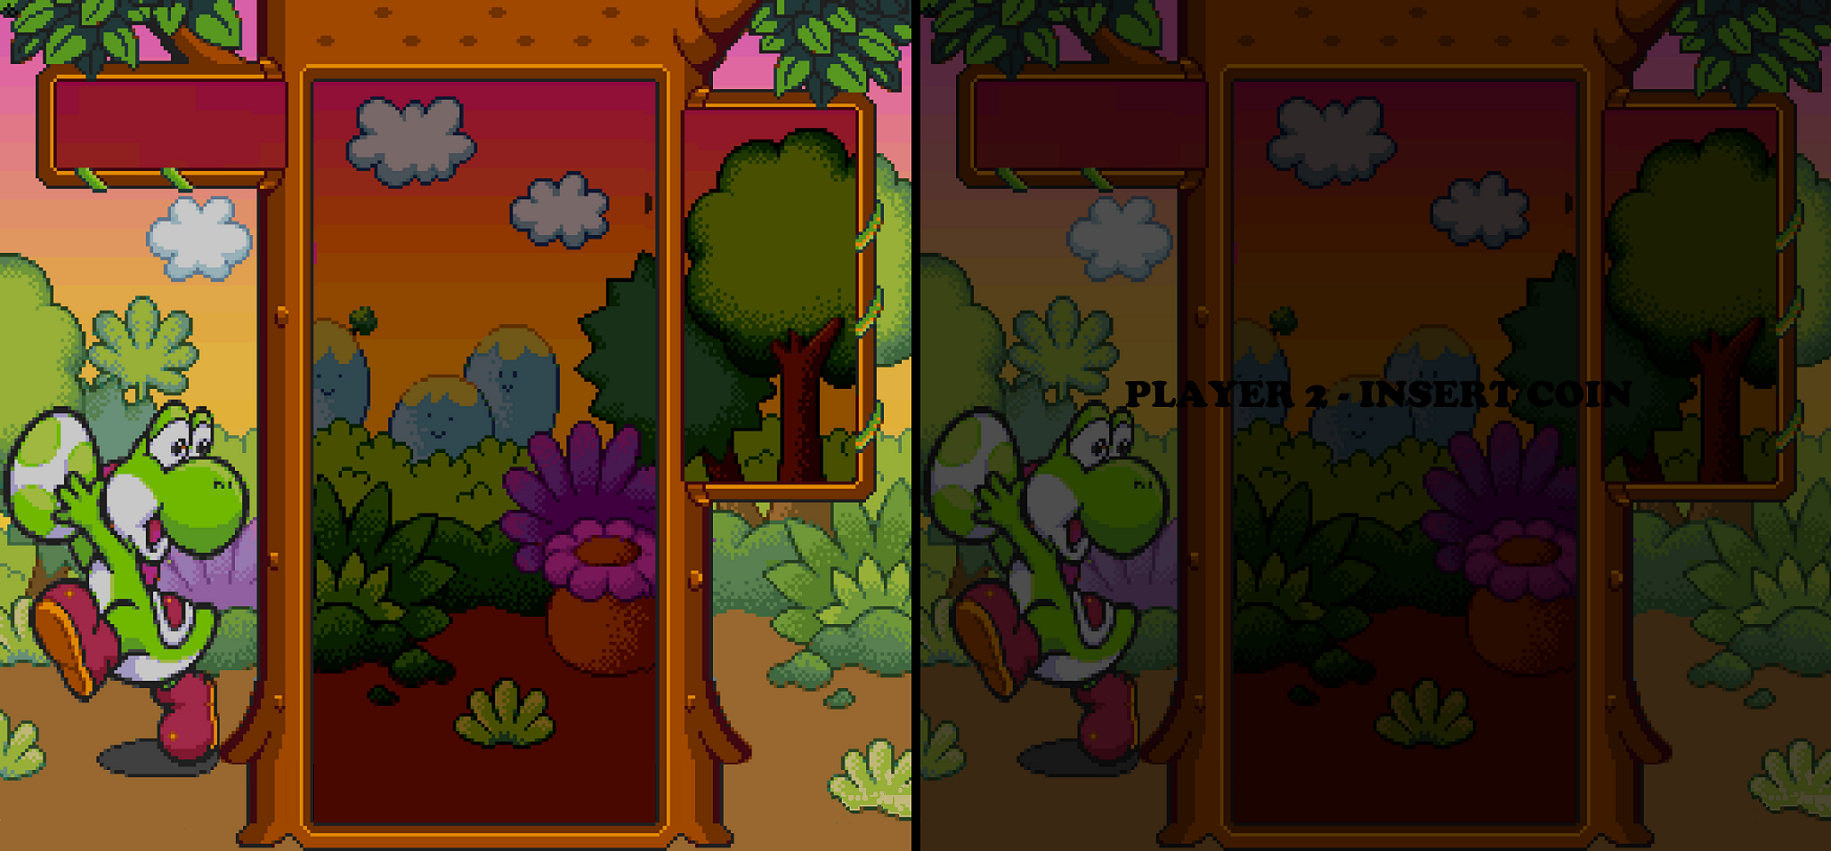
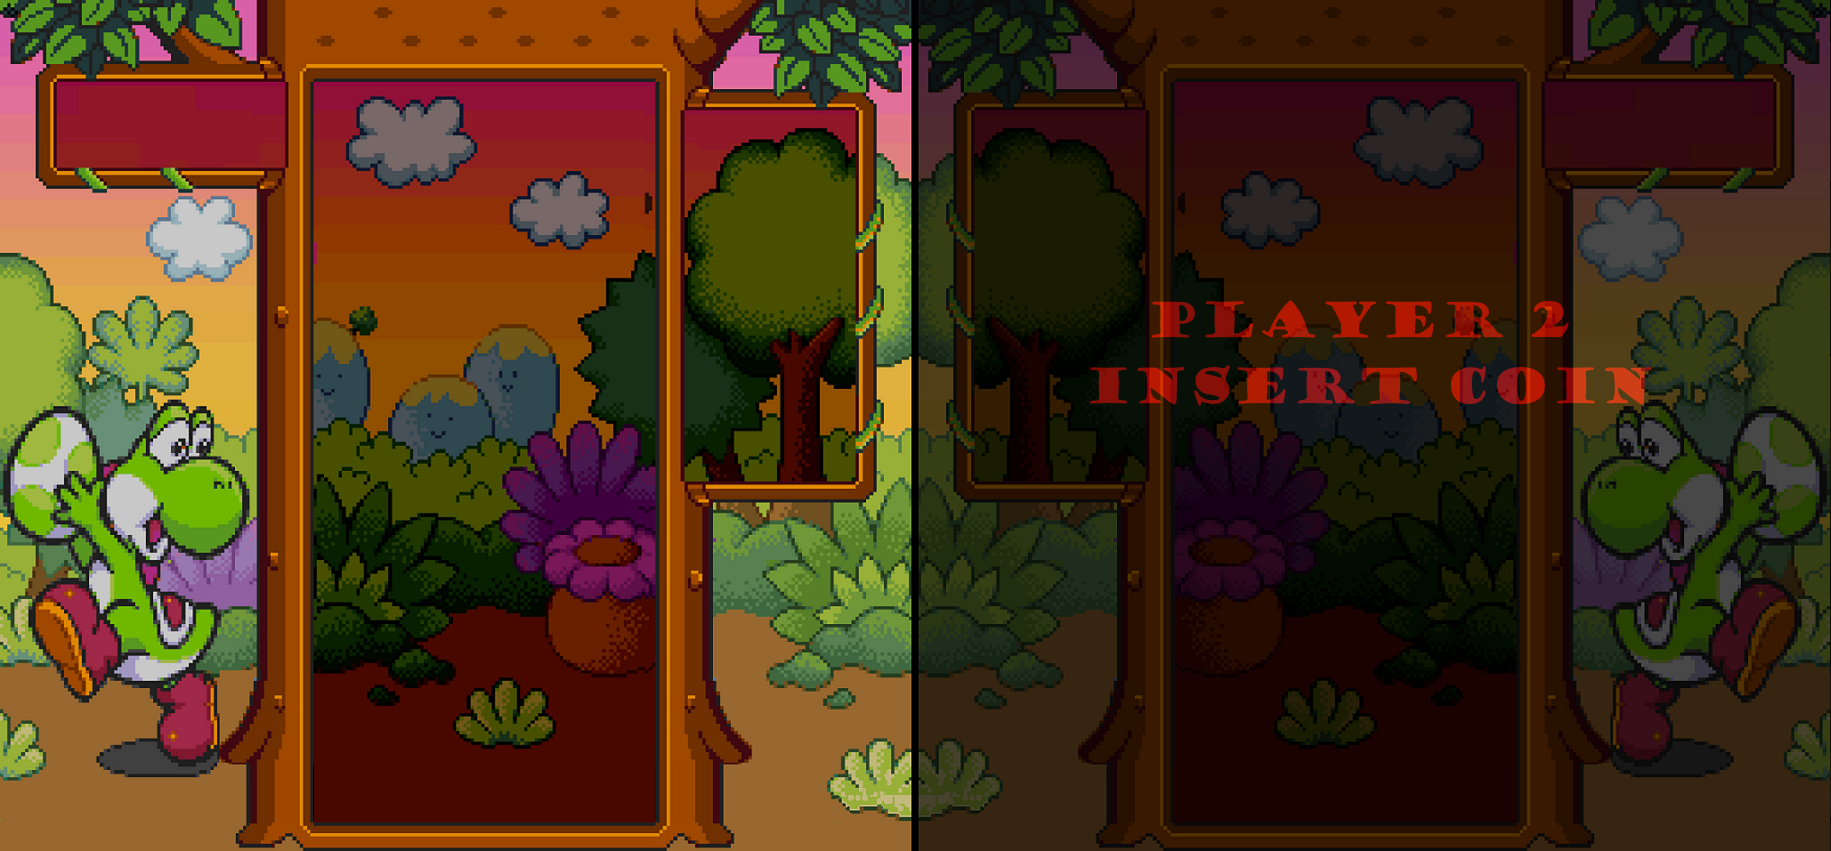
améliorations graphique

Changed region(s): [[0.4981, 0.0, 1.0, 1.0]]

diff --git a/tetris/src/tetris/View/Solo.java b/tetris/src/tetris/View/Solo.java
@@ -34,6 +34,7 @@ public class Solo extends JPanel implements ActionListener {
     public JPanel cards;
     
     private Image background;
+    private Image backgroundBlack;
     private Image ready;
     private Image set;
     private Image go;
@@ -68,6 +69,8 @@ public class Solo extends JPanel implements ActionListener {
     int blinkGameOverTime = 250;
     int countBlinkTime = 0;
     
+    boolean black2p = false;
+    
     public Tetris tetris;
     
     public Solo(Tetris t){
@@ -100,6 +103,9 @@ public class Solo extends JPanel implements ActionListener {
         ImageIcon ii = new ImageIcon(getClass().getResource("/images/Backgrounds/1.png"));
         background = ii.getImage();
         
+        ImageIcon ii7 = new ImageIcon(getClass().getResource("/images/Backgrounds/1bis.png"));
+        backgroundBlack = ii7.getImage();
+        
         ii = new ImageIcon(getClass().getResource("/images/Backgrounds/ready.png"));
         ready = ii.getImage();
         ii = new ImageIcon(getClass().getResource("/images/Backgrounds/set.png"));
@@ -124,7 +130,8 @@ public class Solo extends JPanel implements ActionListener {
     public void paintComponent(Graphics g) {
         super.paintComponent(g);
         if(ga.numSec < 0){
-            g.drawImage(background, 0, 0, null);
+            if(black2p) g.drawImage(backgroundBlack, 0, 0, null);
+            else g.drawImage(background, 0, 0, null);
             drawBoard(g);
             drawTime(g);
             drawScore(g);
@@ -147,7 +154,8 @@ public class Solo extends JPanel implements ActionListener {
         }
         else if(!ga.GO){
             ga.setStarted(true);
-            g.drawImage(background, 0, 0, null);
+            if(black2p) g.drawImage(backgroundBlack, 0, 0, null);
+            else g.drawImage(background, 0, 0, null);
             drawBoard(g);
             drawTime(g);
             drawScore(g);
@@ -158,7 +166,8 @@ public class Solo extends JPanel implements ActionListener {
         }
         else {
             ga.setStarted(false);
-            g.drawImage(background, 0, 0, null);
+            if(black2p) g.drawImage(backgroundBlack, 0, 0, null);
+            else g.drawImage(background, 0, 0, null);
             drawBoard(g);
             drawTime(g);
             drawScore(g);
@@ -277,12 +286,11 @@ public class Solo extends JPanel implements ActionListener {
 
     @Override
     public void actionPerformed(ActionEvent e) {
-        if(ga.GO){
-            countBlinkTime += ga.DELAY;
-            if(countBlinkTime >= blinkGameOverTime){
+        countBlinkTime += ga.DELAY;
+        if(countBlinkTime >= blinkGameOverTime){
                     countBlinkTime = 0;
+                    black2p = ! black2p;
                     blinkGameOver = !blinkGameOver;
-            }
         }
         else {
            Solo.this.requestFocusInWindow();

diff --git a/tetris/src/tetris/View/TwoPlayer.java b/tetris/src/tetris/View/TwoPlayer.java
@@ -1,0 +1,14 @@
+/*
+ * To change this license header, choose License Headers in Project Properties.
+ * To change this template file, choose Tools | Templates
+ * and open the template in the editor.
+ */
+package tetris.View;
+
+/**
+ *
+ * @author Remi
+ */
+public class TwoPlayer {
+    
+}
